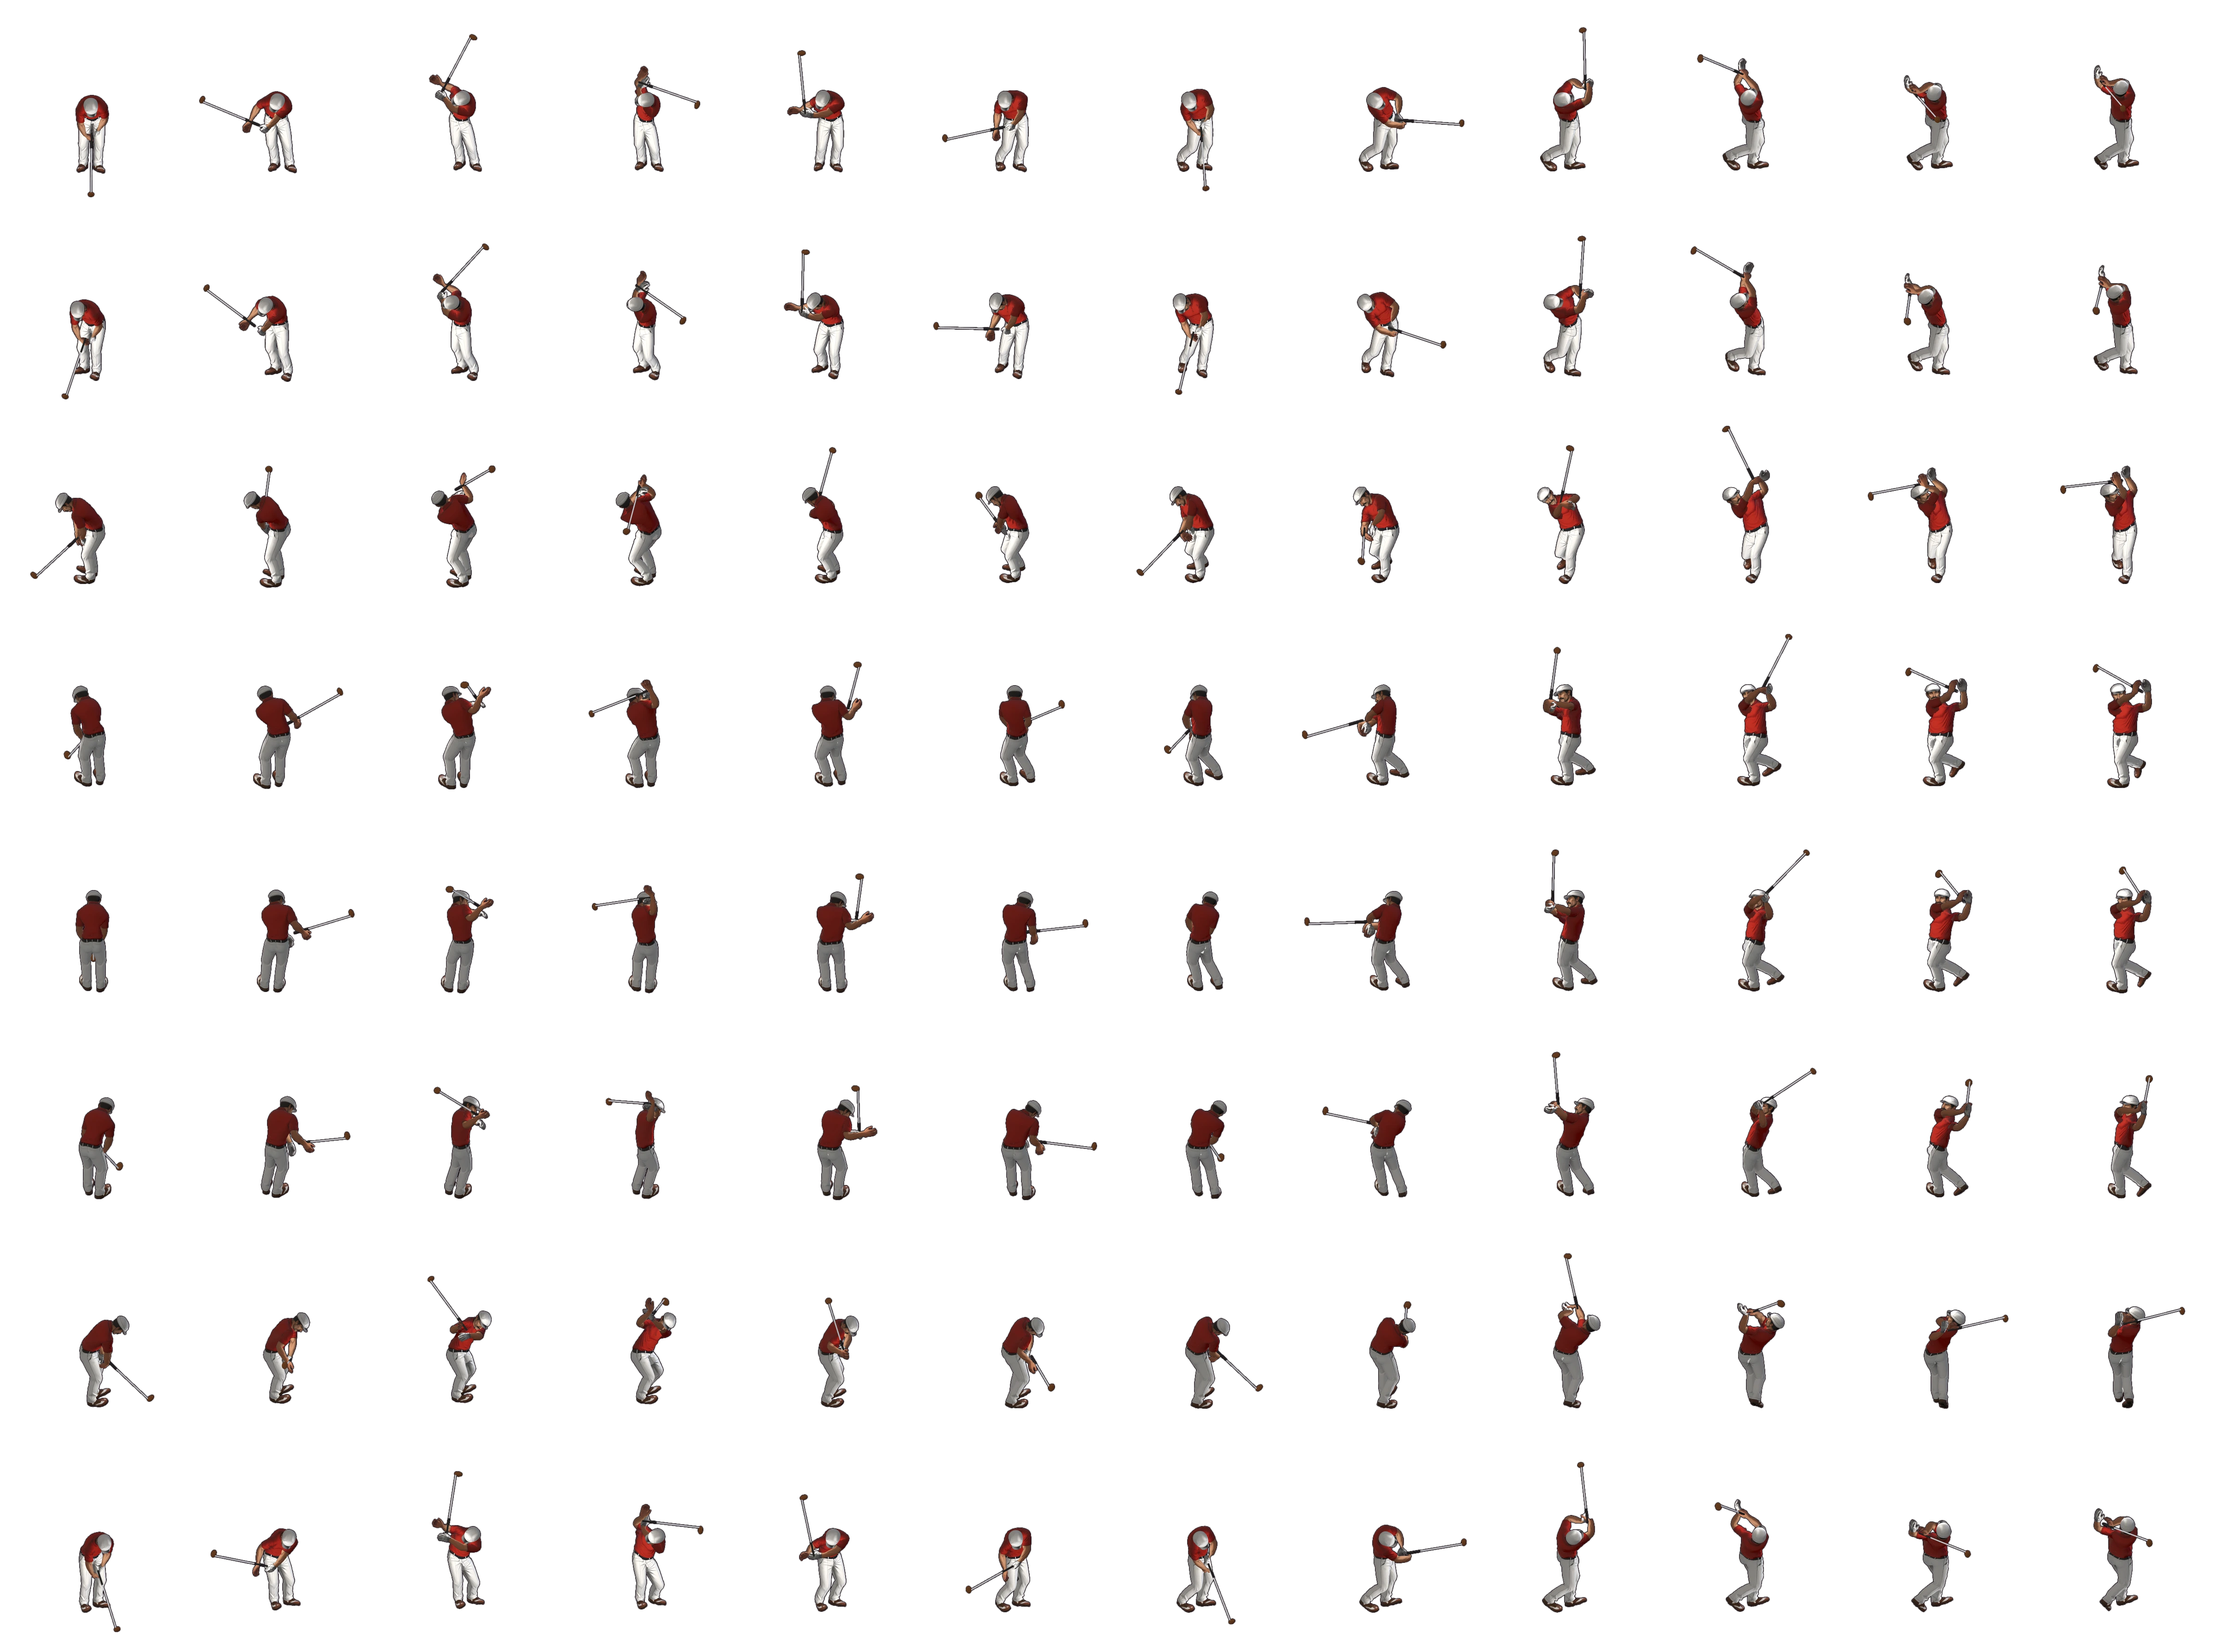
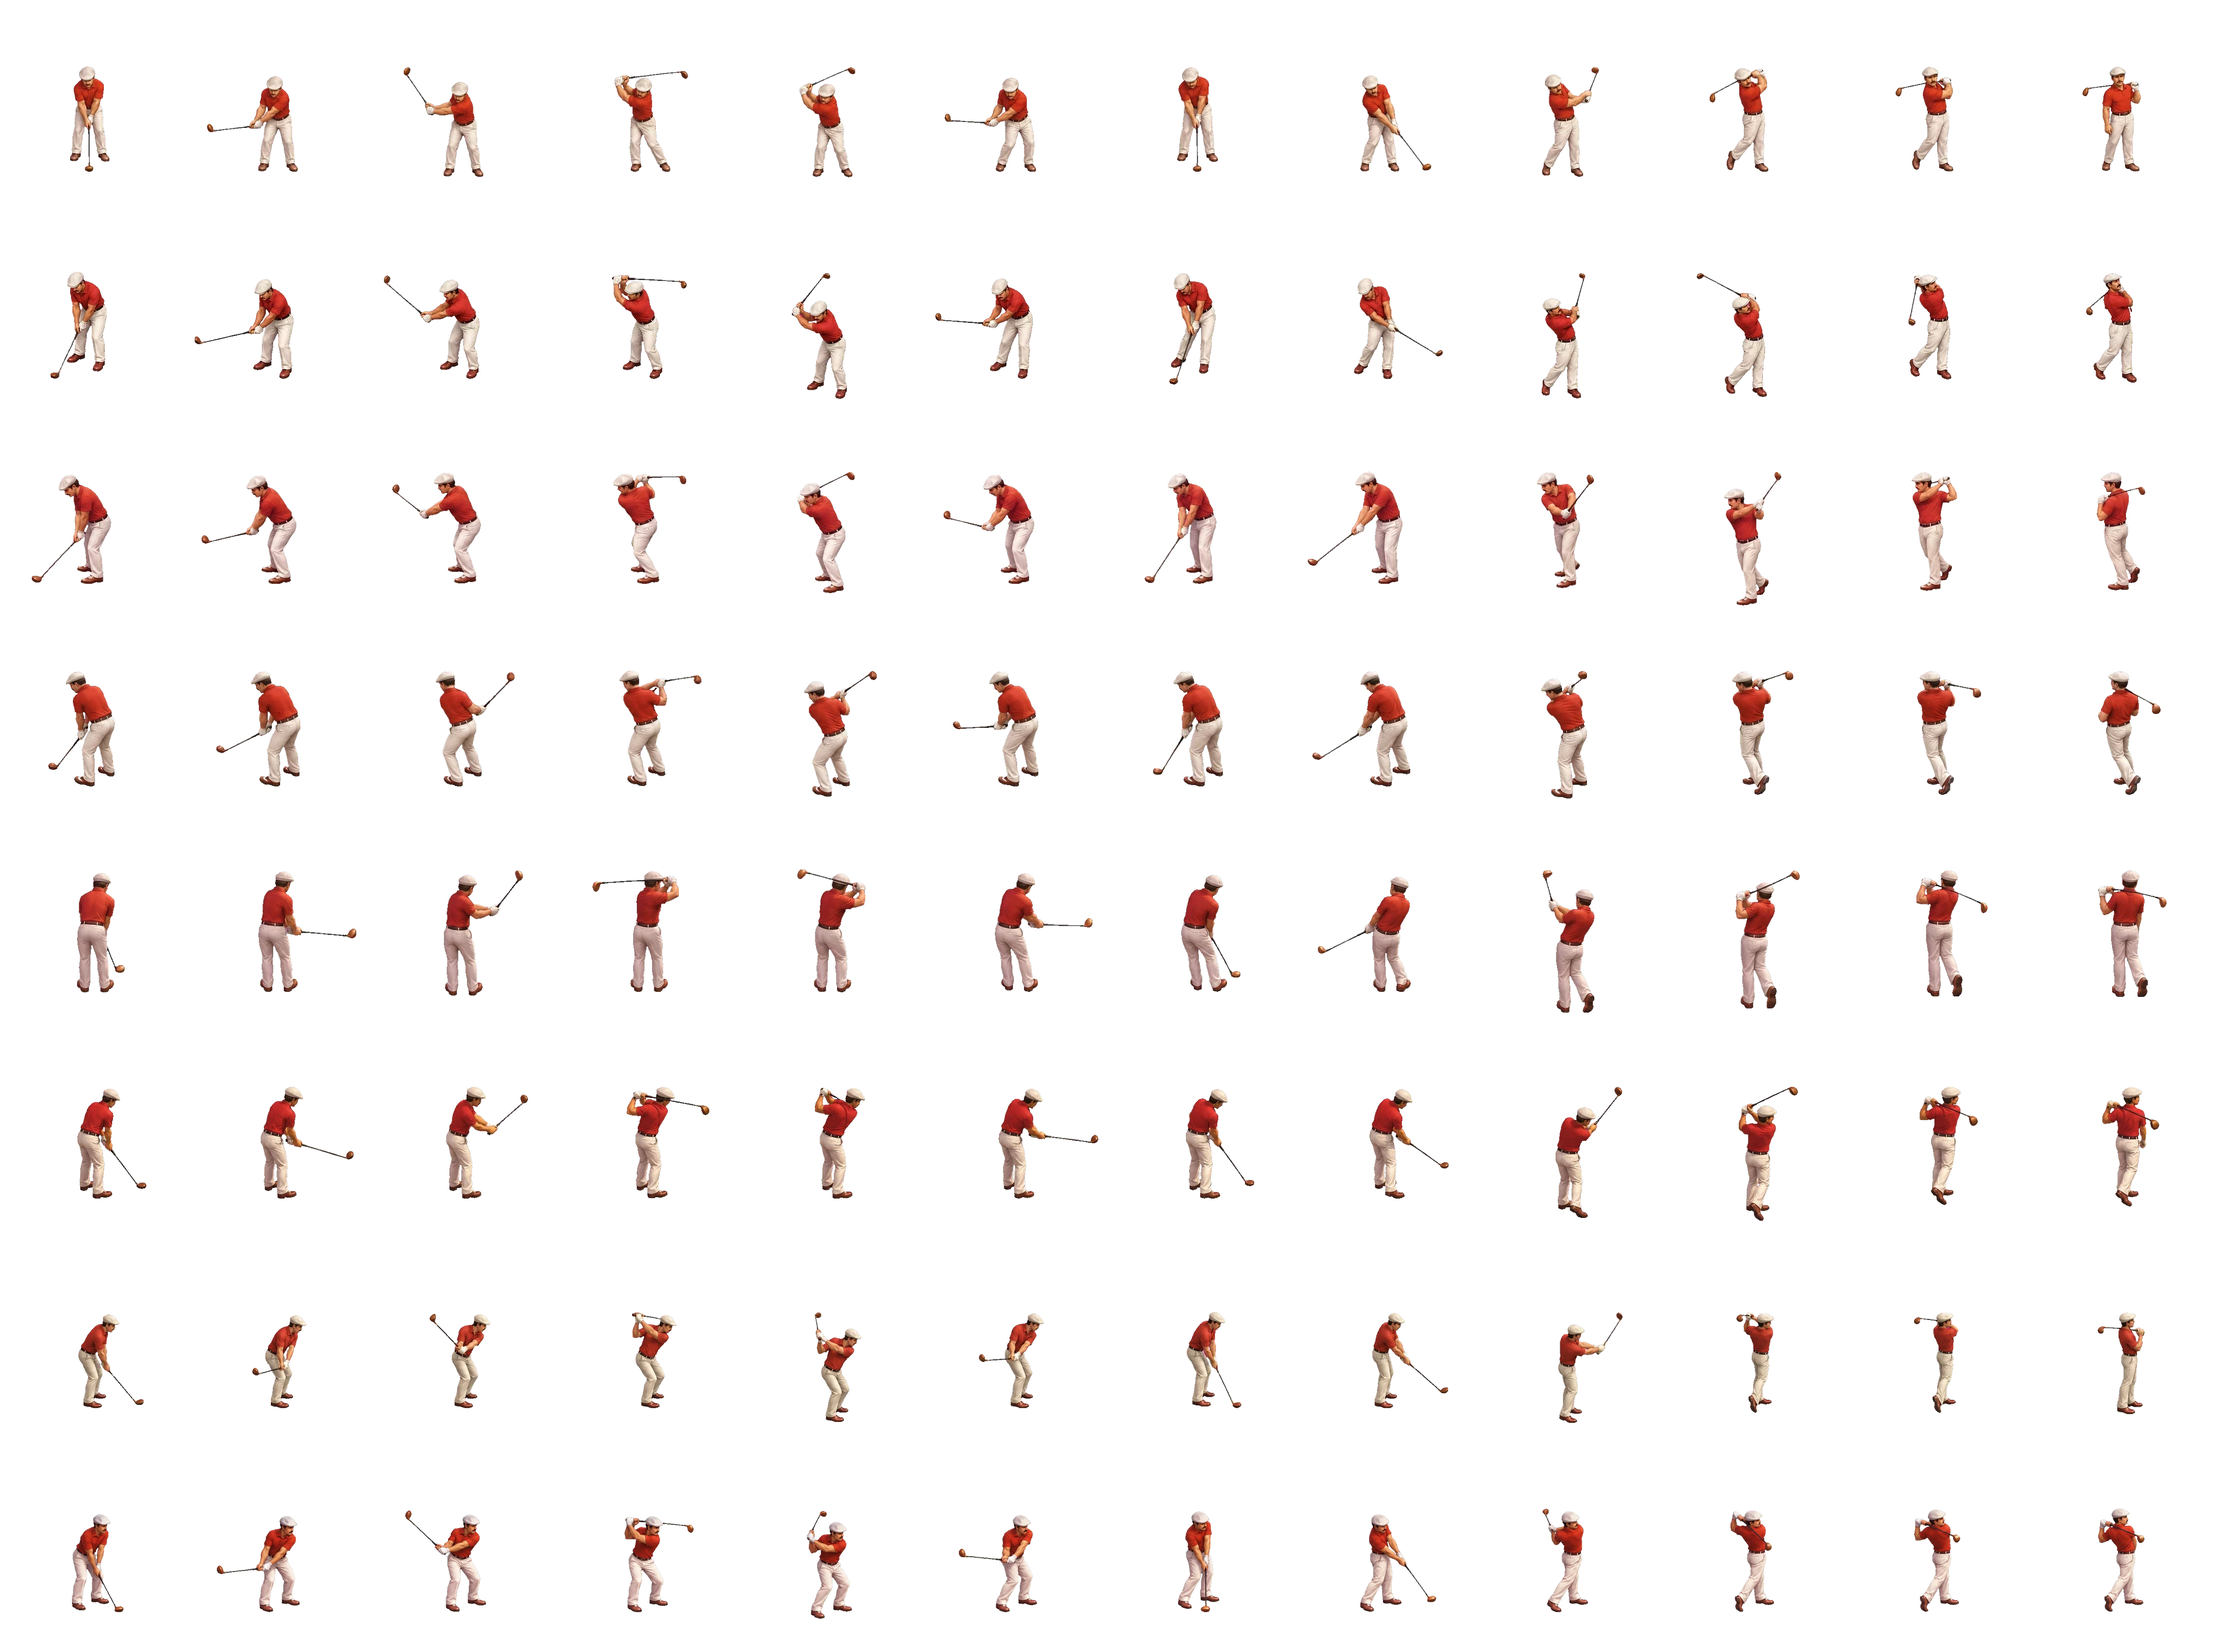
[#1235] Golfer swings batch 3: golf_pro_m3, golf_pro_m4 (SW still old: its picture merged two cells, a re-run follows), golf_pro_w1; import_golfer --all skips a bad picture

diff --git a/scripts/assets/golfers/import_golfer.py b/scripts/assets/golfers/import_golfer.py
@@ -261,8 +261,10 @@ def main():
         for p in sorted(Path(a.inp).glob('*~*-golfers.png'), key=lambda p: p.stat().st_mtime):
             m = NAME.match(p.name)
             if m and (not a.golfer or m.group(1) == a.golfer) and (m.group(3) or 'sheet') == a.clip:
-                if a.clip == 'sheet': import_one(p, m.group(1), m.group(2), a.tol, a.soft, a.scale, a.dry_run)
-                else: import_clip(p, m.group(1), m.group(2), a.clip, a.tol, a.soft, a.scale, a.dry_run)
+                try:
+                    if a.clip == 'sheet': import_one(p, m.group(1), m.group(2), a.tol, a.soft, a.scale, a.dry_run)
+                    else: import_clip(p, m.group(1), m.group(2), a.clip, a.tol, a.soft, a.scale, a.dry_run)
+                except SystemExit as e: print(f'SKIPPED {p.name}: {e} (the row keeps what it had; paint it again)')   # (one bad picture never stops the rest)
         return
     p = Path(a.picture); m = NAME.match(p.name)
     gid, h = a.golfer or (m and m.group(1)), a.heading or (m and m.group(2))
